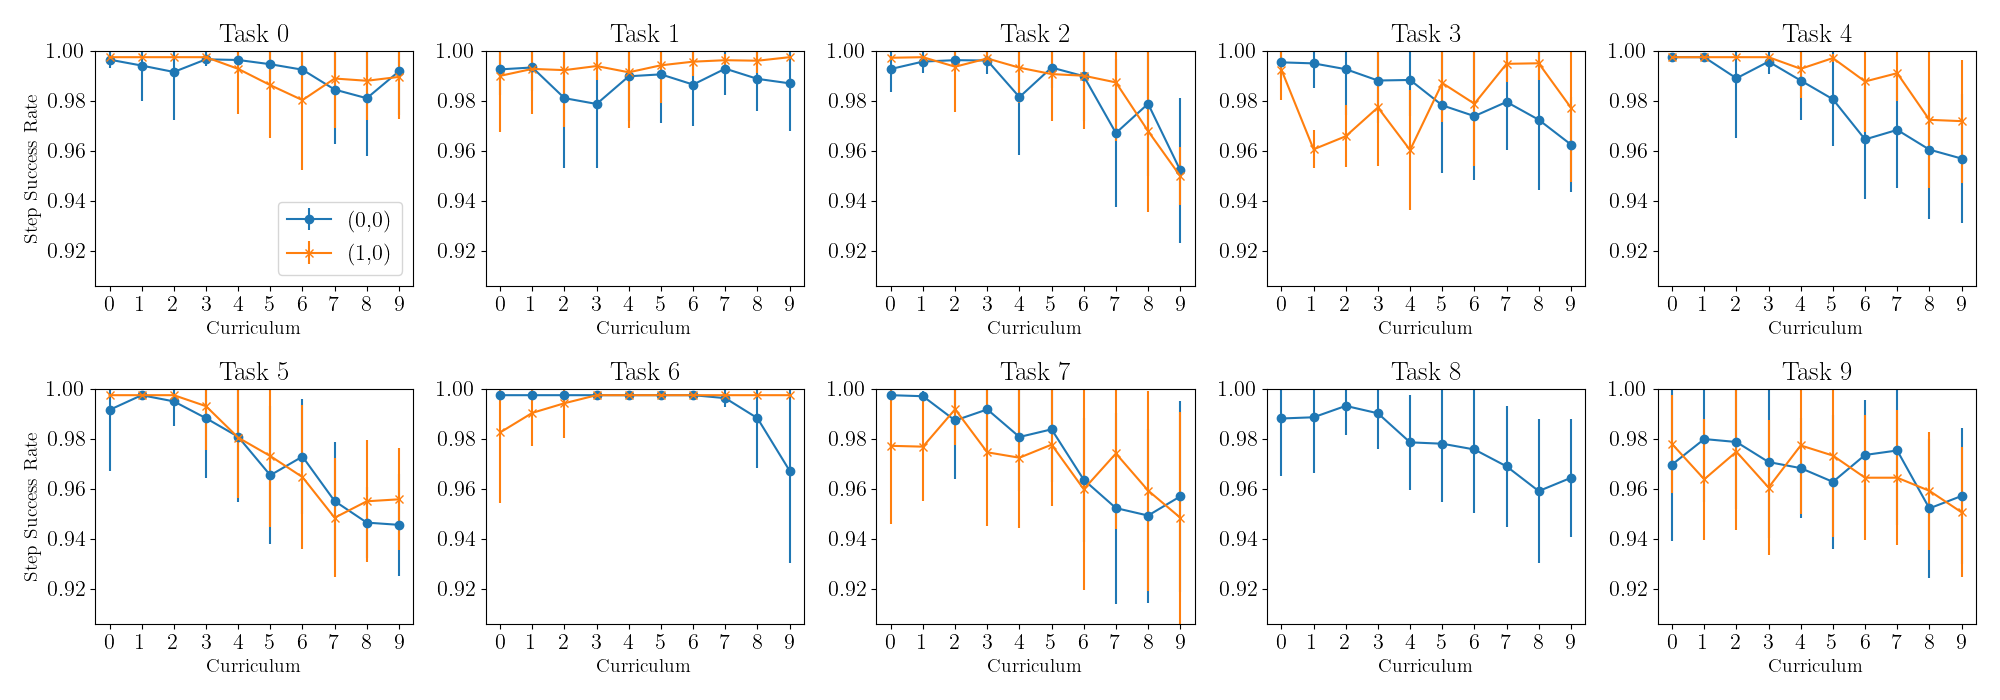
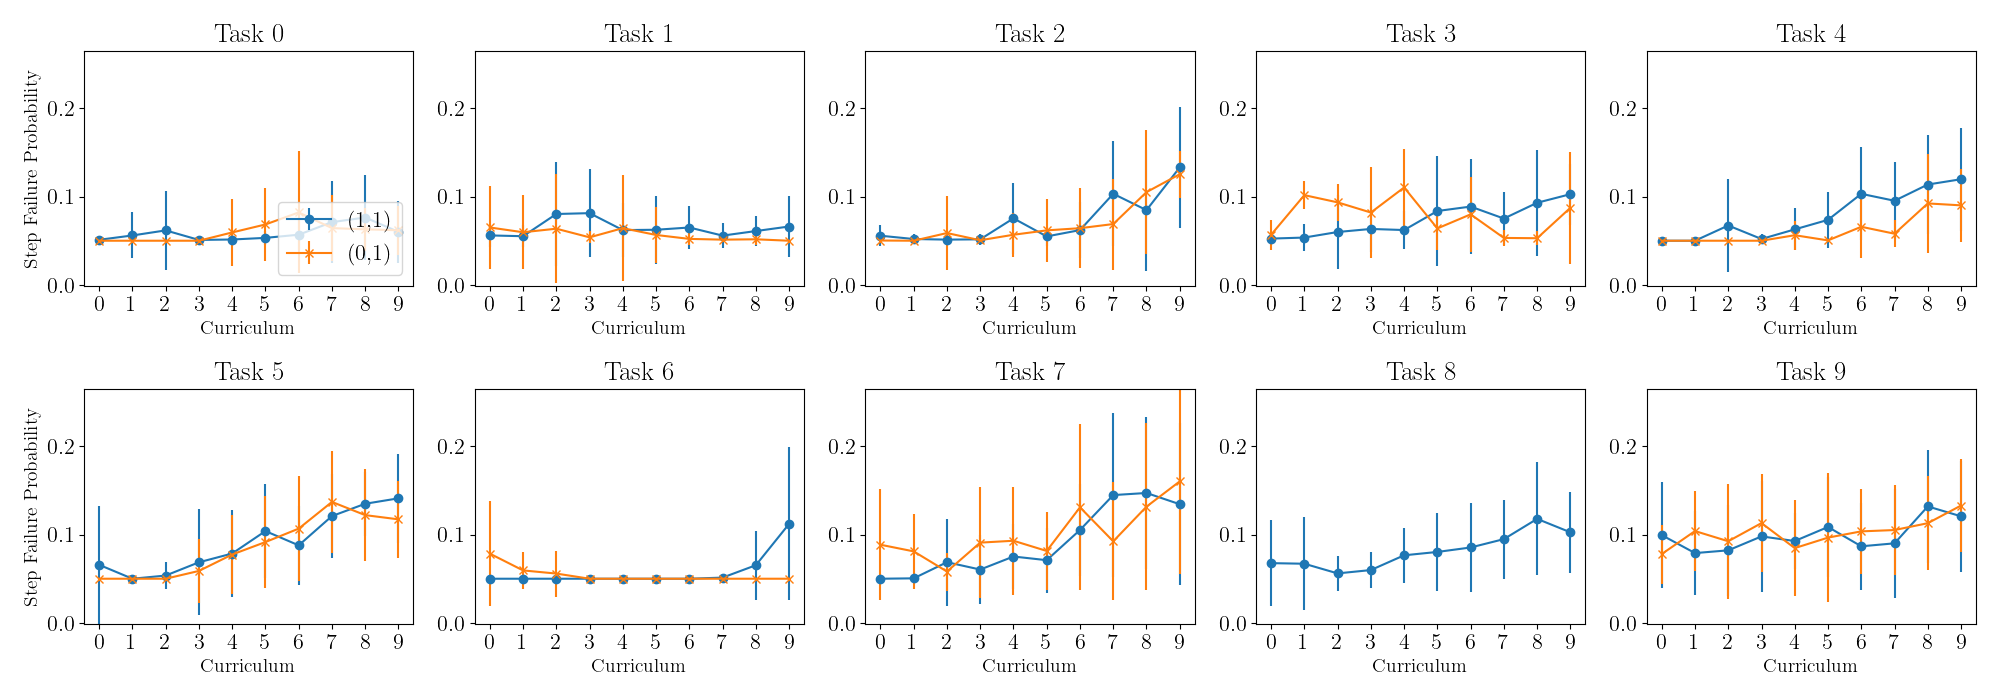
update plotting

diff --git a/plot_eval_data.py b/plot_eval_data.py
@@ -18,19 +18,19 @@ plt.rcParams.update({'font.size': 16})
 column_to_plot = 'curriculum_metric' # 'curriculum_metric'  # Change to 'timing_met', 'heading_err', 'dist_err', or 'curriculum_metric' as needed
 
 # Number of behavior curricula and curricula per behavior curriculum
-num_behavior_curricula = 11
+num_behavior_curricula = 10
 num_curricula = 10
 
 # Prepare subplots
-fig, axes = plt.subplots(nrows=3, ncols=5, figsize=(20, 10))
+fig, axes = plt.subplots(nrows=2, ncols=5, figsize=(20, 7))
 
 # Initialize lists to store the calculated mean and std values for global y-axis scaling
 all_means = []
 all_stds = []
 
-folders = ["no_plasticity", "reset_all"]
+folders = ["reset_all_with_heading"]
 # folders = ["all_with_hopping"]
-folder_labels=["no_plasticity", "reset_all"] #, "..."]
+folder_labels=["reset_all"] #, "..."]
 
 for behavior_curriculum in range(num_behavior_curricula):
     all_means_for_task = {}
@@ -61,10 +61,14 @@ for behavior_curriculum in range(num_behavior_curricula):
                 data_both_nan = data[data['timing_met'].isna() & data['heading_err'].isna()][column_to_plot]
 
                 if column_to_plot == "curriculum_metric":
-                    data_none_nan = np.exp(np.log(np.array(data_none_nan) / 20) / 20)
-                    data_timing_nan = np.exp(np.log(np.array(data_timing_nan) / 20) / 20)
-                    data_heading_nan = np.exp(np.log(np.array(data_heading_nan) / 20) / 20)
-                    data_both_nan = np.exp(np.log(np.array(data_both_nan) / 20) / 20)
+                    # data_none_nan = np.exp(np.log(np.array(data_none_nan) / 20) / 20)
+                    # data_timing_nan = np.exp(np.log(np.array(data_timing_nan) / 20) / 20)
+                    # data_heading_nan = np.exp(np.log(np.array(data_heading_nan) / 20) / 20)
+                    # data_both_nan = np.exp(np.log(np.array(data_both_nan) / 20) / 20)
+                    data_none_nan = 1/(data_none_nan + 1)
+                    data_timing_nan = 1/(data_timing_nan + 1)
+                    data_heading_nan = 1/(data_heading_nan + 1)
+                    data_both_nan = 1/(data_both_nan + 1)
 
                 # Calculate mean and std for each subset
                 mean_none_nan = data_none_nan.mean()
@@ -107,23 +111,23 @@ for behavior_curriculum in range(num_behavior_curricula):
 
         all_means_for_task[i] = means_none_nan
 
-        # ax.errorbar(curriculum_to_plot, means_none_nan, yerr=stds_none_nan, fmt='-o', label=f'(0,0) - {folder_labels[i]}')
-        # ax.errorbar(curriculum_to_plot, means_timing_nan, yerr=stds_timing_nan, fmt='-x', label=f'(1,0) - {folder_labels[i]}')
-        ax.errorbar(curriculum_to_plot, means_heading_nan, yerr=stds_heading_nan, fmt='-s') #,  label='(0,1)')
-        ax.errorbar(curriculum_to_plot, means_both_nan, yerr=stds_both_nan, fmt='-d') #, label='(1,1)')
+        ax.errorbar(curriculum_to_plot, means_none_nan, yerr=stds_none_nan, fmt='-o', label=f'(1,1)') # - {folder_labels[i]}')
+        ax.errorbar(curriculum_to_plot, means_timing_nan, yerr=stds_timing_nan, fmt='-x', label=f'(0,1)') # - {folder_labels[i]}')
+        ax.errorbar(curriculum_to_plot, means_heading_nan, yerr=stds_heading_nan, fmt='-s', label='(1,0)')
+        ax.errorbar(curriculum_to_plot, means_both_nan, yerr=stds_both_nan, fmt='-d', label='(0,0)')
 
-    # 0 = no_plasticity
-    differences = [a - b for a, b in zip(all_means_for_task[1], all_means_for_task[0])]
-    # Compute the average difference
-    average_difference = sum(differences) / len(differences)
-    print(f"{behavior_curriculum}: {average_difference} and {sum([1 for x in differences if x > 0]) / len(differences)}")
+    # # 0 = no_plasticity
+    # differences = [a - b for a, b in zip(all_means_for_task[1], all_means_for_task[0])]
+    # # Compute the average difference
+    # average_difference = sum(differences) / len(differences)
+    # print(f"{behavior_curriculum}: {average_difference} and {sum([1 for x in differences if x > 0]) / len(differences)}")
 
 
     ax.set_title(f"Task {behavior_curriculum}")
     ax.set_xlabel("Curriculum", fontsize=14)
     ax.set_xticks(range(10))
     if behavior_curriculum == 0 or behavior_curriculum == 5:
-        ax.set_ylabel("Step Success Rate", fontsize=14)
+        ax.set_ylabel("Step Failure Probability", fontsize=14)
 
 # Calculate global y-axis limits based on mean ± std ranges
 global_min = min(np.array(all_means) - np.array(all_stds))
